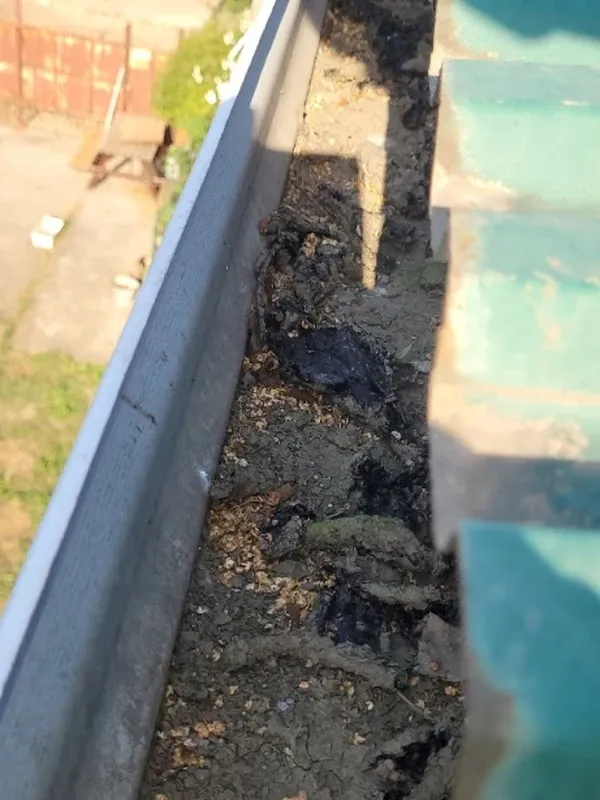
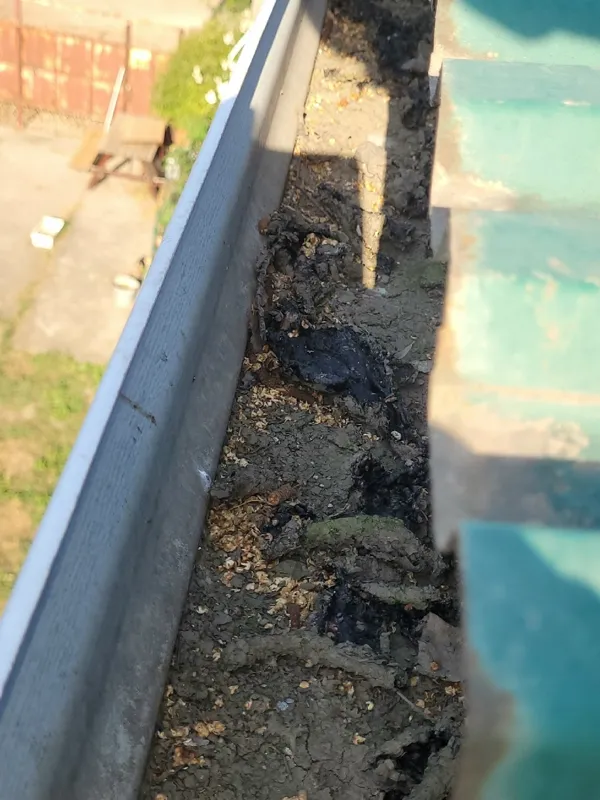
krd-zasor: full-size gutter photos, endoscope gutter pair

diff --git a/krd-zasor/index.html b/krd-zasor/index.html
@@ -111,7 +111,7 @@ body{background:#0A1F4A}header{background:rgba(8,24,58,.88)}.bar{background:rgba
 
 <section id="about"><div class="w"><h2>О мастере</h2><div class="master"><img src="master.webp" alt="Александр Кравцов" width="400" height="400" loading="lazy"><div><div class="master-top"><p class="master-name">Александр Кравцов</p><span class="master-exp">Опыт более 12 лет</span></div><p>К своей работе отношусь щепетильно и с душой: мне правда нравится то, чем я занимаюсь.</p><p>Берусь за засоры любой сложности, от раковины до стояка, и за очистку желобов, водостоков и крыш. Цену называю на месте, до начала работ. На все свои услуги даю гарантию.</p><p>Репутация не берётся с воздуха, она строится на честной работе и довольных клиентах.</p></div></div></div></section>
 
-<section id="works"><div class="w"><h2>Работы: до и после</h2><div class="ba"><figure><div class="pair"><div><img src="w7-before.webp" alt="До: Очистка желобов и водостоков от земли, ила и листвы" loading="lazy" width="600" height="800"><span>До</span></div><div><img src="w7-after.webp" alt="После: Очистка желобов и водостоков от земли, ила и листвы" loading="lazy" width="600" height="800"><span>После</span></div></div><figcaption>Очистка желобов и водостоков от земли, ила и листвы</figcaption></figure><figure><div class="pair"><div><img src="w5-before.webp" alt="До: Плесень на стенах: диагностика тепловизором и эндоскопом, выводы объяснил клиентам" loading="lazy" width="600" height="800"><span>Проблема</span></div><div><img src="w5-after.webp" alt="После: Плесень на стенах: диагностика тепловизором и эндоскопом, выводы объяснил клиентам" loading="lazy" width="600" height="800"><span>Диагностика</span></div></div><figcaption>Плесень на стенах: диагностика тепловизором и эндоскопом, выводы объяснил клиентам</figcaption></figure><figure><div class="pair"><div><img src="w6-before.webp" alt="До: Засор в квартире: снял унитаз целиком и достал втулку, чтобы не забить общий стояк" loading="lazy" width="600" height="800"><span>До</span></div><div><img src="w6-after.webp" alt="После: Засор в квартире: снял унитаз целиком и достал втулку, чтобы не забить общий стояк" loading="lazy" width="600" height="800"><span>После</span></div></div><figcaption>Засор в квартире: снял унитаз целиком и достал втулку, чтобы не забить общий стояк</figcaption></figure><figure><div class="pair"><div><img src="w1-before.webp" alt="До: Замена смесителя в каменной мойке" loading="lazy" width="600" height="800"><span>До</span></div><div><img src="w1-after.webp" alt="После: Замена смесителя в каменной мойке" loading="lazy" width="600" height="800"><span>После</span></div></div><figcaption>Замена смесителя в каменной мойке</figcaption></figure><figure><div class="pair"><div><img src="w2-before.webp" alt="До: Установка батарей отопления" loading="lazy" width="600" height="800"><span>До</span></div><div><img src="w2-after.webp" alt="После: Установка батарей отопления" loading="lazy" width="600" height="800"><span>После</span></div></div><figcaption>Установка батарей отопления</figcaption></figure><figure><div class="pair"><div><img src="w3-before.webp" alt="До: Замена и подключение циркуляционного насоса" loading="lazy" width="600" height="800"><span>До</span></div><div><img src="w3-after.webp" alt="После: Замена и подключение циркуляционного насоса" loading="lazy" width="600" height="800"><span>После</span></div></div><figcaption>Замена и подключение циркуляционного насоса</figcaption></figure><figure><div class="pair"><div><img src="w4-before.webp" alt="До: Восстановление напора воды: ремонт редуктора" loading="lazy" width="600" height="800"><span>До</span></div><div><img src="w4-after.webp" alt="После: Восстановление напора воды: ремонт редуктора" loading="lazy" width="600" height="800"><span>После</span></div></div><figcaption>Восстановление напора воды: ремонт редуктора</figcaption></figure></div><p style="margin:18px 0 0"><a class="btn ghost" href="https://rutube.ru/channel/15636088" target="_blank" rel="noopener"><svg aria-hidden="true" width="18" height="18" viewBox="0 0 24 24" fill="none" stroke="currentColor" stroke-width="2" stroke-linecap="round" stroke-linejoin="round"><rect x="2" y="5" width="20" height="14" rx="3"/><path d="m10 9 5 3-5 3z"/></svg>Видео работ на RUTUBE</a></p></div></section>
+<section id="works"><div class="w"><h2>Работы: до и после</h2><div class="ba"><figure><div class="pair"><div><img src="w7-before.webp" alt="До: Очистка желобов и водостоков от земли, ила и листвы" loading="lazy" width="600" height="800"><span>До</span></div><div><img src="w7-after.webp" alt="После: Очистка желобов и водостоков от земли, ила и листвы" loading="lazy" width="600" height="800"><span>После</span></div></div><figcaption>Очистка желобов и водостоков от земли, ила и листвы</figcaption></figure><figure><div class="pair"><div><img src="w8-before.webp" alt="До: Прочистка водосточных труб с видеодиагностикой эндоскопом" loading="lazy" width="600" height="800"><span>До</span></div><div><img src="w8-after.webp" alt="После: Прочистка водосточных труб с видеодиагностикой эндоскопом" loading="lazy" width="600" height="800"><span>После</span></div></div><figcaption>Прочистка водосточных труб с видеодиагностикой эндоскопом</figcaption></figure><figure><div class="pair"><div><img src="w5-before.webp" alt="До: Плесень на стенах: диагностика тепловизором и эндоскопом, выводы объяснил клиентам" loading="lazy" width="600" height="800"><span>Проблема</span></div><div><img src="w5-after.webp" alt="После: Плесень на стенах: диагностика тепловизором и эндоскопом, выводы объяснил клиентам" loading="lazy" width="600" height="800"><span>Диагностика</span></div></div><figcaption>Плесень на стенах: диагностика тепловизором и эндоскопом, выводы объяснил клиентам</figcaption></figure><figure><div class="pair"><div><img src="w6-before.webp" alt="До: Засор в квартире: снял унитаз целиком и достал втулку, чтобы не забить общий стояк" loading="lazy" width="600" height="800"><span>До</span></div><div><img src="w6-after.webp" alt="После: Засор в квартире: снял унитаз целиком и достал втулку, чтобы не забить общий стояк" loading="lazy" width="600" height="800"><span>После</span></div></div><figcaption>Засор в квартире: снял унитаз целиком и достал втулку, чтобы не забить общий стояк</figcaption></figure><figure><div class="pair"><div><img src="w1-before.webp" alt="До: Замена смесителя в каменной мойке" loading="lazy" width="600" height="800"><span>До</span></div><div><img src="w1-after.webp" alt="После: Замена смесителя в каменной мойке" loading="lazy" width="600" height="800"><span>После</span></div></div><figcaption>Замена смесителя в каменной мойке</figcaption></figure><figure><div class="pair"><div><img src="w2-before.webp" alt="До: Установка батарей отопления" loading="lazy" width="600" height="800"><span>До</span></div><div><img src="w2-after.webp" alt="После: Установка батарей отопления" loading="lazy" width="600" height="800"><span>После</span></div></div><figcaption>Установка батарей отопления</figcaption></figure><figure><div class="pair"><div><img src="w3-before.webp" alt="До: Замена и подключение циркуляционного насоса" loading="lazy" width="600" height="800"><span>До</span></div><div><img src="w3-after.webp" alt="После: Замена и подключение циркуляционного насоса" loading="lazy" width="600" height="800"><span>После</span></div></div><figcaption>Замена и подключение циркуляционного насоса</figcaption></figure><figure><div class="pair"><div><img src="w4-before.webp" alt="До: Восстановление напора воды: ремонт редуктора" loading="lazy" width="600" height="800"><span>До</span></div><div><img src="w4-after.webp" alt="После: Восстановление напора воды: ремонт редуктора" loading="lazy" width="600" height="800"><span>После</span></div></div><figcaption>Восстановление напора воды: ремонт редуктора</figcaption></figure></div><p style="margin:18px 0 0"><a class="btn ghost" href="https://rutube.ru/channel/15636088" target="_blank" rel="noopener"><svg aria-hidden="true" width="18" height="18" viewBox="0 0 24 24" fill="none" stroke="currentColor" stroke-width="2" stroke-linecap="round" stroke-linejoin="round"><rect x="2" y="5" width="20" height="14" rx="3"/><path d="m10 9 5 3-5 3z"/></svg>Видео работ на RUTUBE</a></p></div></section>
 
 
 
